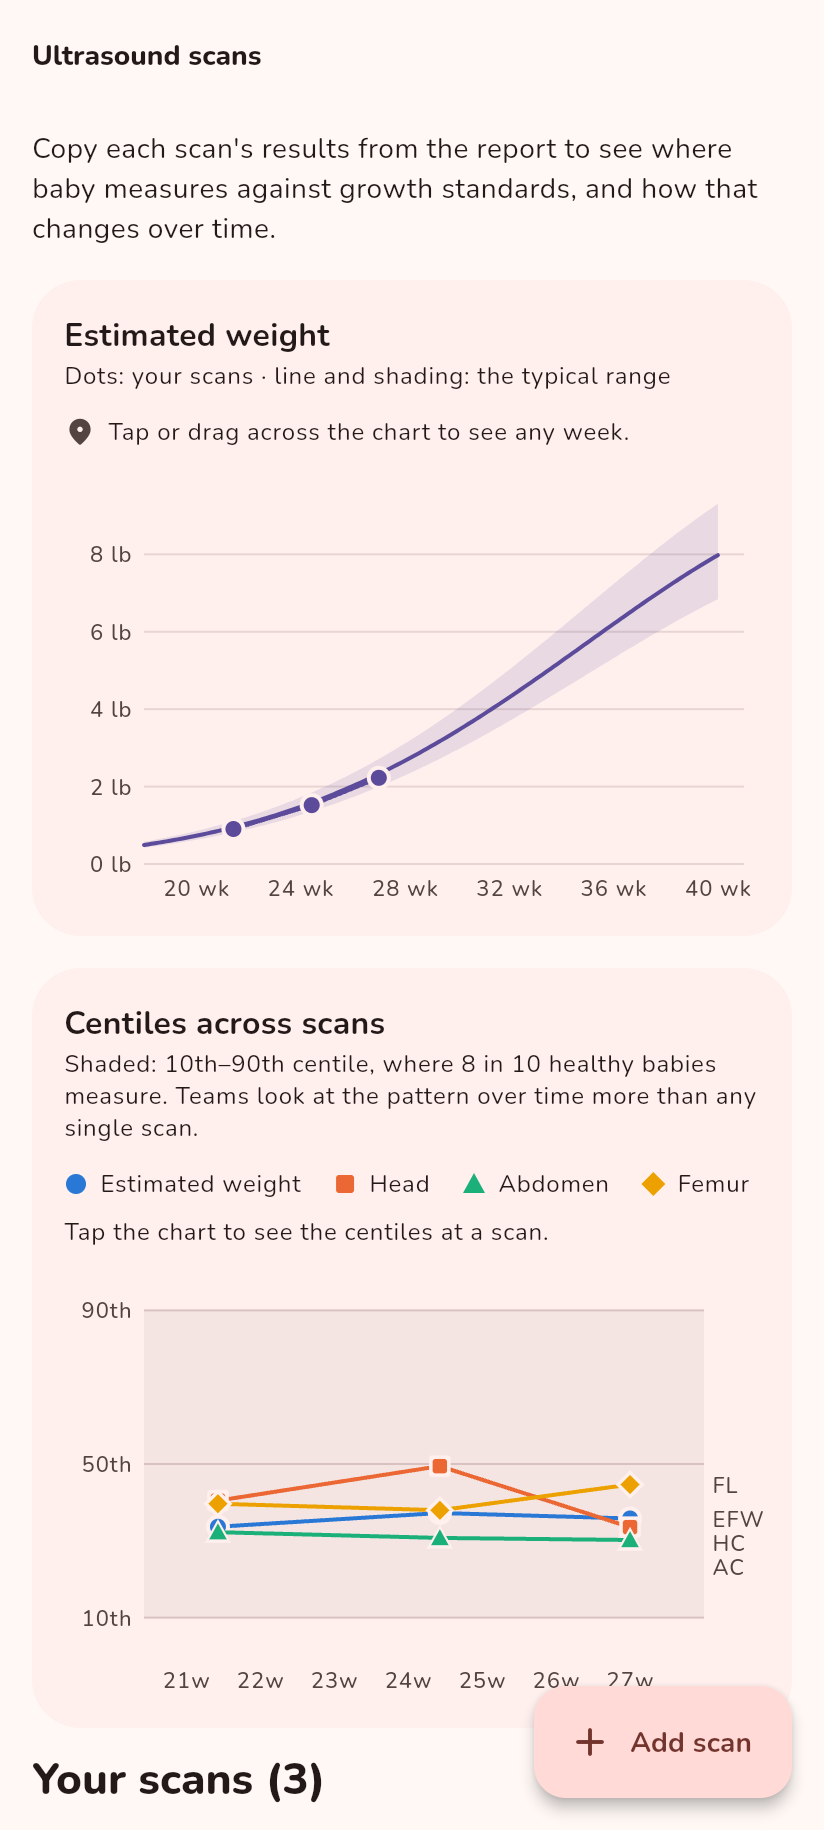
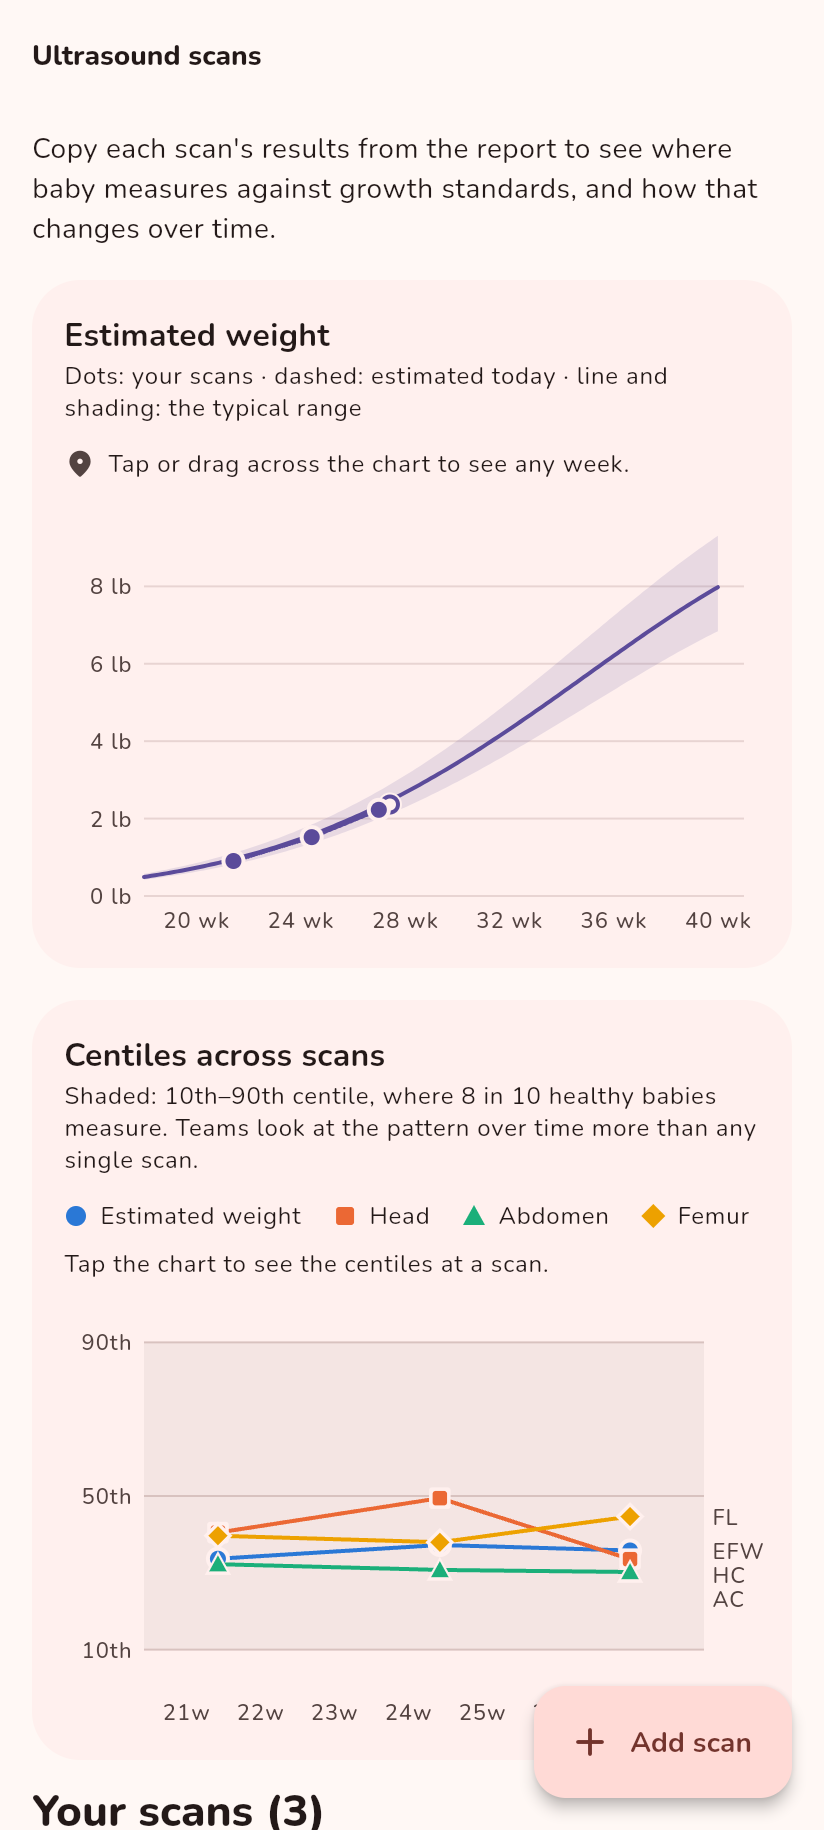
Refresh Early Bloom screenshots for 1.4
Recaptured Today, Ultrasound scans and Journal from the current app so
they show baby's estimated size from scans and the hospital stays row.
Captions and alt text say so, and the Baby's Growth card mentions the
estimate. The single-scan, questions and sync shots were unchanged.

Claude-Session: https://claude.ai/code/session_01KWMgQ7sXPWK8vjnxtNr6Rb

diff --git a/early-bloom.html b/early-bloom.html
@@ -147,7 +147,7 @@
                             <h3 class="font-semibold text-brand-900">Baby's Growth</h3>
                         </div>
                         <p class="text-brand-500 leading-relaxed text-sm">
-                            The measurements an ultrasound reports, calculated for the exact day with their typical range, using either the <strong class="text-brand-800">INTERGROWTH-21st</strong> standards or <strong class="text-brand-800">Hadlock</strong> charts.
+                            The measurements an ultrasound reports, calculated for the exact day with their typical range, using either the <strong class="text-brand-800">INTERGROWTH-21st</strong> standards or <strong class="text-brand-800">Hadlock</strong> charts. Between scans, it estimates baby's size today from the centile at your last scan.
                         </p>
                     </div>
                     <div class="bg-brand-50 rounded-2xl p-7 border border-brand-100 shadow-sm">
@@ -230,20 +230,20 @@
             </div>
             <div class="flex md:grid md:grid-cols-3 gap-6 overflow-x-auto md:overflow-visible snap-x snap-mandatory pb-4 -mx-6 px-6 md:mx-0 md:px-0">
                 <figure class="snap-center shrink-0 w-56 md:w-auto">
-                    <img src="early-bloom-shots/today.png" width="412" height="915" loading="lazy" alt="Today: the week, a verse and prayer, and baby's size" class="w-full h-auto rounded-2xl border border-brand-100 shadow-md bg-white">
-                    <figcaption class="text-xs text-brand-500 mt-3 text-center leading-snug">Today: the week, a verse and prayer, and baby's size</figcaption>
+                    <img src="early-bloom-shots/today.png" width="412" height="915" loading="lazy" alt="Today: the week, a verse and prayer, and baby's estimated size from your scans" class="w-full h-auto rounded-2xl border border-brand-100 shadow-md bg-white">
+                    <figcaption class="text-xs text-brand-500 mt-3 text-center leading-snug">Today: the week, a verse and prayer, and baby's estimated size from your scans</figcaption>
                 </figure>
                 <figure class="snap-center shrink-0 w-56 md:w-auto">
-                    <img src="early-bloom-shots/scans.png" width="412" height="915" loading="lazy" alt="Ultrasound scans: weight and centiles over time" class="w-full h-auto rounded-2xl border border-brand-100 shadow-md bg-white">
-                    <figcaption class="text-xs text-brand-500 mt-3 text-center leading-snug">Ultrasound scans: weight and centiles over time</figcaption>
+                    <img src="early-bloom-shots/scans.png" width="412" height="915" loading="lazy" alt="Ultrasound scans: weight and centiles over time, with today's estimate" class="w-full h-auto rounded-2xl border border-brand-100 shadow-md bg-white">
+                    <figcaption class="text-xs text-brand-500 mt-3 text-center leading-snug">Ultrasound scans: weight and centiles over time, with today's estimate</figcaption>
                 </figure>
                 <figure class="snap-center shrink-0 w-56 md:w-auto">
                     <img src="early-bloom-shots/scan.png" width="412" height="915" loading="lazy" alt="One scan, with centiles on Hadlock or INTERGROWTH-21st charts" class="w-full h-auto rounded-2xl border border-brand-100 shadow-md bg-white">
                     <figcaption class="text-xs text-brand-500 mt-3 text-center leading-snug">One scan, with centiles on Hadlock or INTERGROWTH-21st charts</figcaption>
                 </figure>
                 <figure class="snap-center shrink-0 w-56 md:w-auto">
-                    <img src="early-bloom-shots/journal.png" width="412" height="915" loading="lazy" alt="The journal, with questions, scans and medicines" class="w-full h-auto rounded-2xl border border-brand-100 shadow-md bg-white">
-                    <figcaption class="text-xs text-brand-500 mt-3 text-center leading-snug">The journal, with questions, scans and medicines</figcaption>
+                    <img src="early-bloom-shots/journal.png" width="412" height="915" loading="lazy" alt="The journal, with questions, scans, medicines and hospital stays" class="w-full h-auto rounded-2xl border border-brand-100 shadow-md bg-white">
+                    <figcaption class="text-xs text-brand-500 mt-3 text-center leading-snug">The journal, with questions, scans, medicines and hospital stays</figcaption>
                 </figure>
                 <figure class="snap-center shrink-0 w-56 md:w-auto">
                     <img src="early-bloom-shots/questions.png" width="412" height="915" loading="lazy" alt="Questions to ask your care team" class="w-full h-auto rounded-2xl border border-brand-100 shadow-md bg-white">
